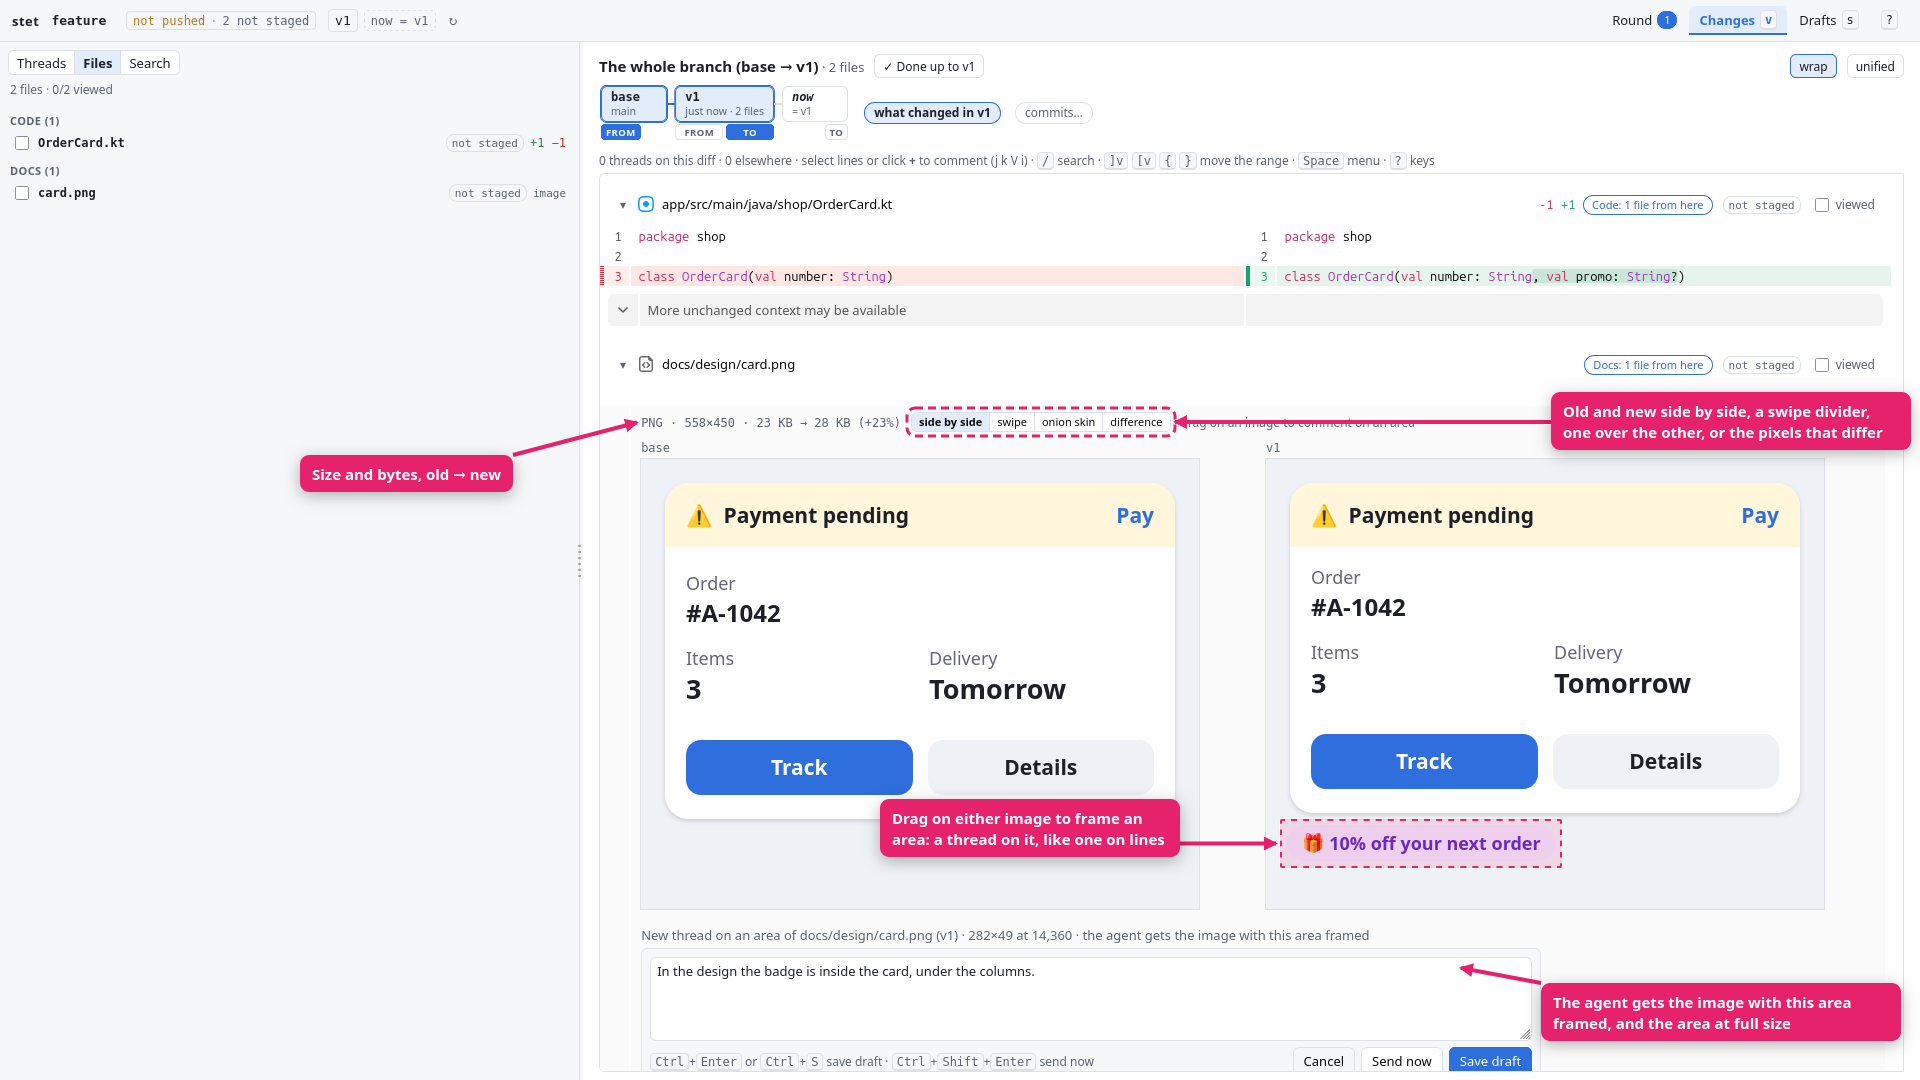
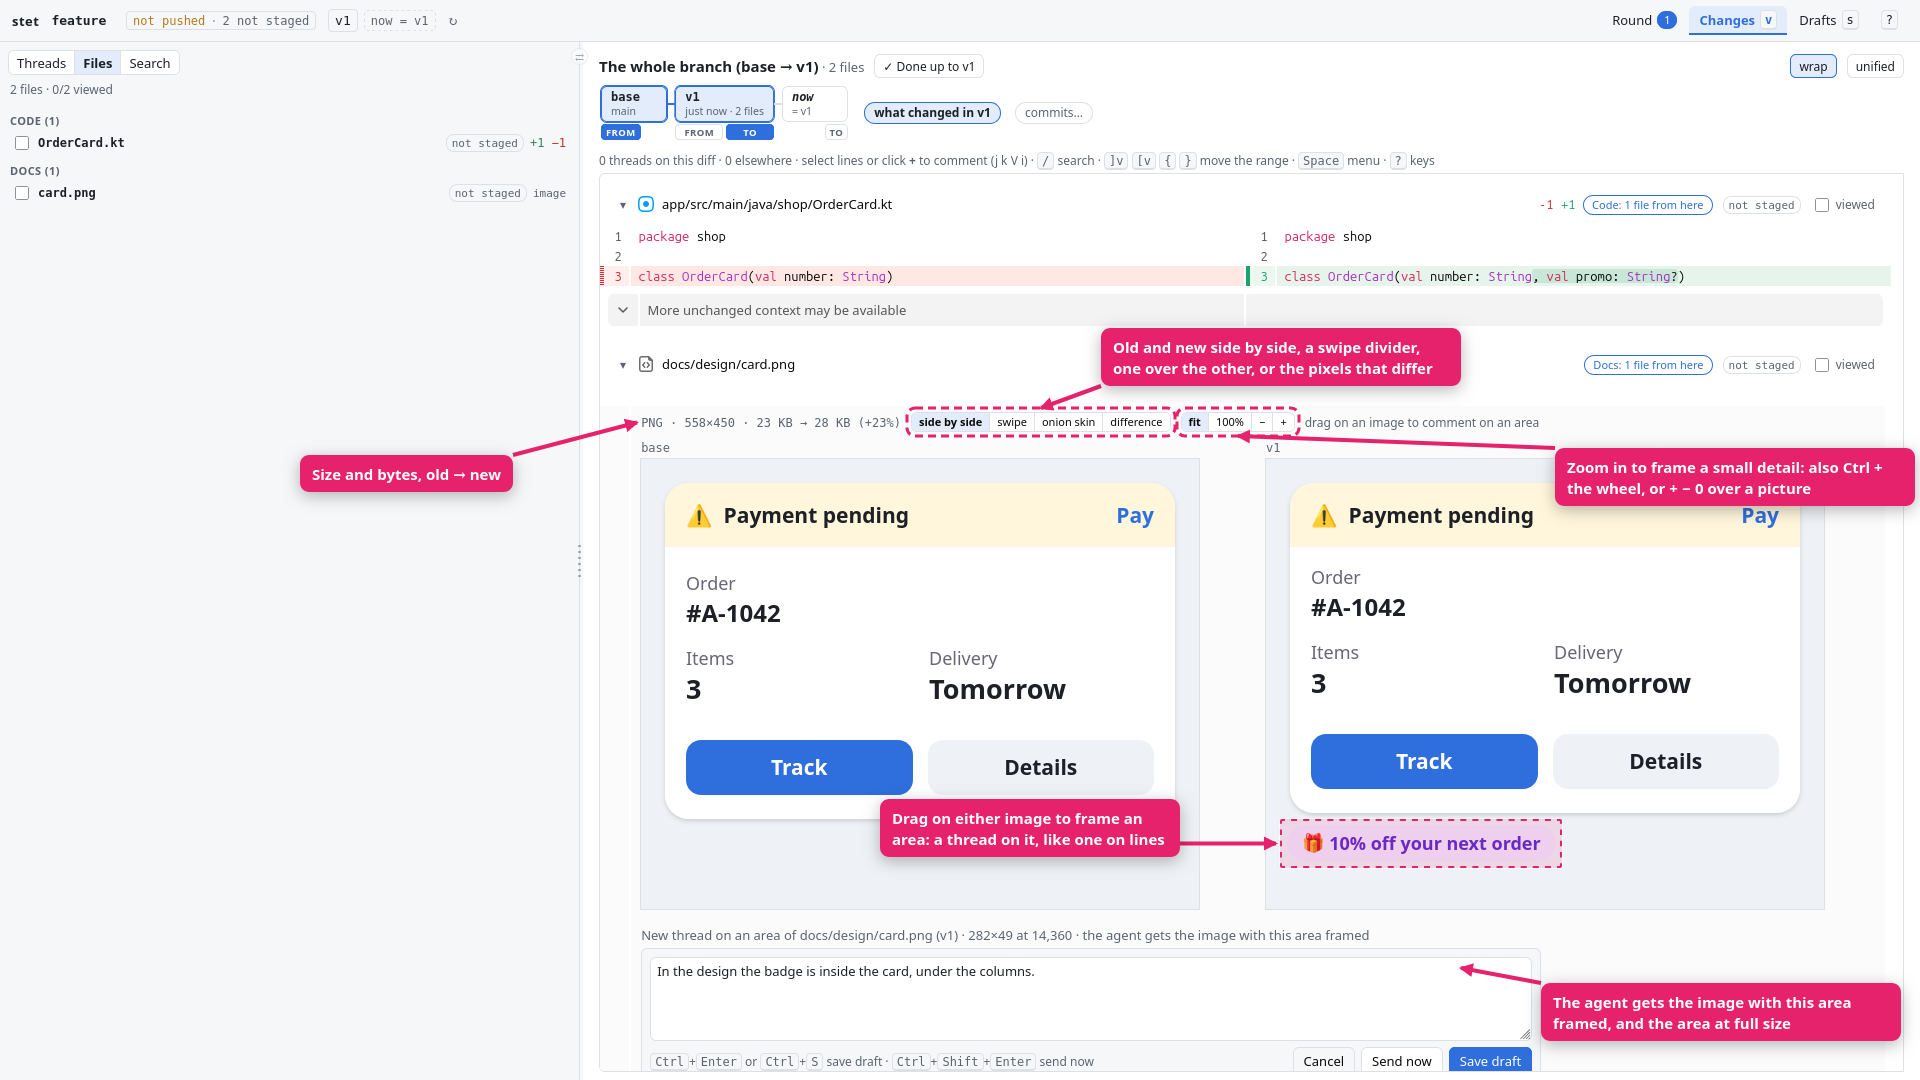
Guide: images: zoom to frame a small detail, with the zoom buttons on the image's header in the first two frames

Changed region(s): [[0.5625, 0.3056, 1.0, 0.4889], [0.5312, 0.3667, 0.5625, 0.3972]]

diff --git a/scripts/guide/images.ts b/scripts/guide/images.ts
@@ -52,13 +52,15 @@ export async function imagesGuide() {
       await p.keys(..."In the design the badge is inside the card, under the columns.");
       await p.sleep(400);
       const modes = await p.need(".imgdiff .seg");
+      const zoom = await p.need(".imgdiff .zoom-bar");
       const caption = await p.need(".imgdiff-caption");
       const frame = await p.need(".imgdiff .img-frame.tone-pending");
       const note = await p.need(".imgdiff .new-thread .note");
       await p.shot("images-1.png", [
         { html: "Size and bytes, old → new", at: { x: 300, y: caption.y + 40 }, to: { x: caption.x - 4, y: caption.y + caption.h / 2 }, w: 250 },
-        { html: "Old and new side by side, a swipe divider, one over the other, or the pixels that differ", at: { x: modes.x + modes.w + 380, y: modes.y - 20 }, to: { x: modes.x + modes.w + 4, y: modes.y + modes.h / 2 }, ring: modes, w: 360 },
+        { html: "Old and new side by side, a swipe divider, one over the other, or the pixels that differ", at: { x: modes.x + modes.w / 2 + 60, y: modes.y - 84 }, to: { x: modes.x + modes.w / 2, y: modes.y - 4 }, ring: modes, w: 360 },
         { html: "Drag on either image to frame an area: a thread on it, like one on lines", at: { x: frame.x - 400, y: frame.y - 20 }, to: { x: frame.x - 4, y: frame.y + frame.h / 2 }, w: 300 },
+        { html: "Zoom in to frame a small detail: also Ctrl + the wheel, or + − 0 over a picture", at: { x: zoom.x + zoom.w + 260, y: zoom.y + 36 }, to: { x: zoom.x + zoom.w / 2, y: zoom.y + zoom.h + 4 }, ring: zoom, w: 360 },
         { html: "The agent gets the image with this area framed, and the area at full size", at: { x: note.x + 900, y: note.y + 60 }, to: { x: note.x + 820, y: note.y + note.h + 20 }, w: 360 },
       ]);
       await p.eval(`[...document.querySelectorAll(".imgdiff .new-thread button")].find(b => b.textContent.includes("Send now")).click(); true`);
@@ -71,7 +73,7 @@ export async function imagesGuide() {
       const changed = await p.need(".imgdiff-canvas .tone-change-box");
       await p.shot("images-2.png", [
         { html: "Pixels that differ in magenta, the rest faded; the dashed box holds every change", at: { x: changed.x + changed.w + 60, y: changed.y + 40 }, to: { x: changed.x + changed.w + 4, y: changed.y + changed.h / 2 }, w: 340 },
-        { html: "How many pixels and where. A layout that moves things down marks all below: swipe or onion skin show that better", at: { x: sum.x + sum.w + 120, y: sum.y - 20 }, to: { x: sum.x + sum.w + 4, y: sum.y + sum.h / 2 }, w: 380 },
+        { html: "How many pixels and where. A layout that moves things down marks all below: swipe or onion skin show that better", at: { x: sum.x + sum.w + 220, y: sum.y + 50 }, to: { x: sum.x + sum.w + 4, y: sum.y + sum.h / 2 }, w: 380 },
       ]);
       await p.eval(`[...document.querySelectorAll(".imgdiff .seg button")].find(b => b.textContent === "side by side").click(); true`);
 

diff --git a/docs/guide/README.md b/docs/guide/README.md
@@ -87,6 +87,11 @@ A drag on either image frames an area and opens the comment box under the pictur
 area as other threads are on lines, a draft until you submit, with replies and resolve. Frames of the
 threads on an image are drawn over it; a click opens the thread.
 
+To frame a small detail, zoom in: **+** / **−**, **100%** and **fit** on the header, `Ctrl` + the wheel, or the
+keys `+`, `-` and `0` over the picture. A zoomed picture scrolls in its frame (the wheel, or a drag with the
+middle button), and you draw on it as before: the area is kept in the picture's own pixels. Old and new side
+by side zoom and scroll together.
+
 ![An image in the diff, and an area framed for a thread](images-1.png)
 
 ![The pixels that differ](images-2.png)
